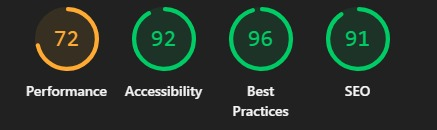
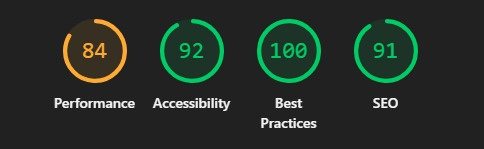
done

diff --git a/README.md b/README.md
@@ -44,9 +44,9 @@ The project demonstrates modern front-end practices, color-blind friendly design
 ## 📊 Lighthouse Report
 
 ### After Improvements
-- **Performance**: 72  
+- **Performance**: 84
 - **Accessibility**: 92  
-- **Best Practices**: 96
+- **Best Practices**: 100
 - **SEO**: 91
 
 ![Lighthouse After](assets/images/lighthouse.jpeg)
